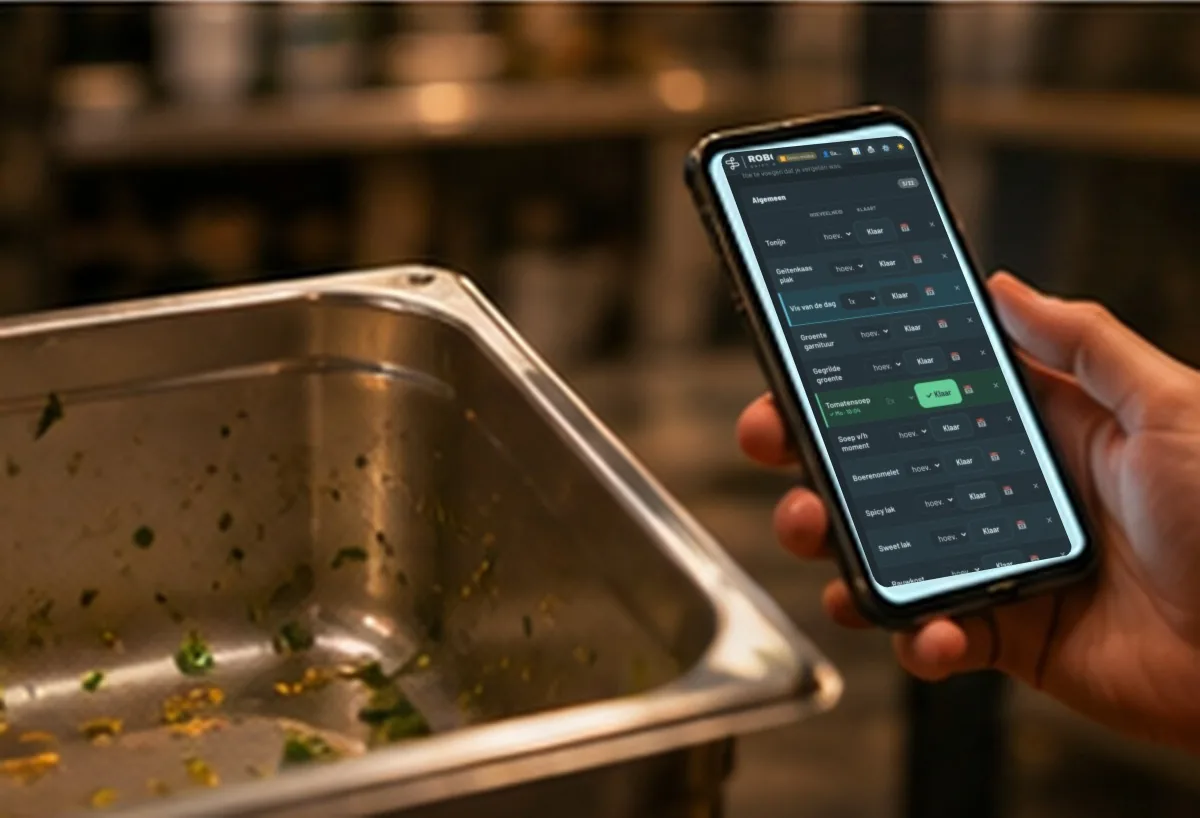
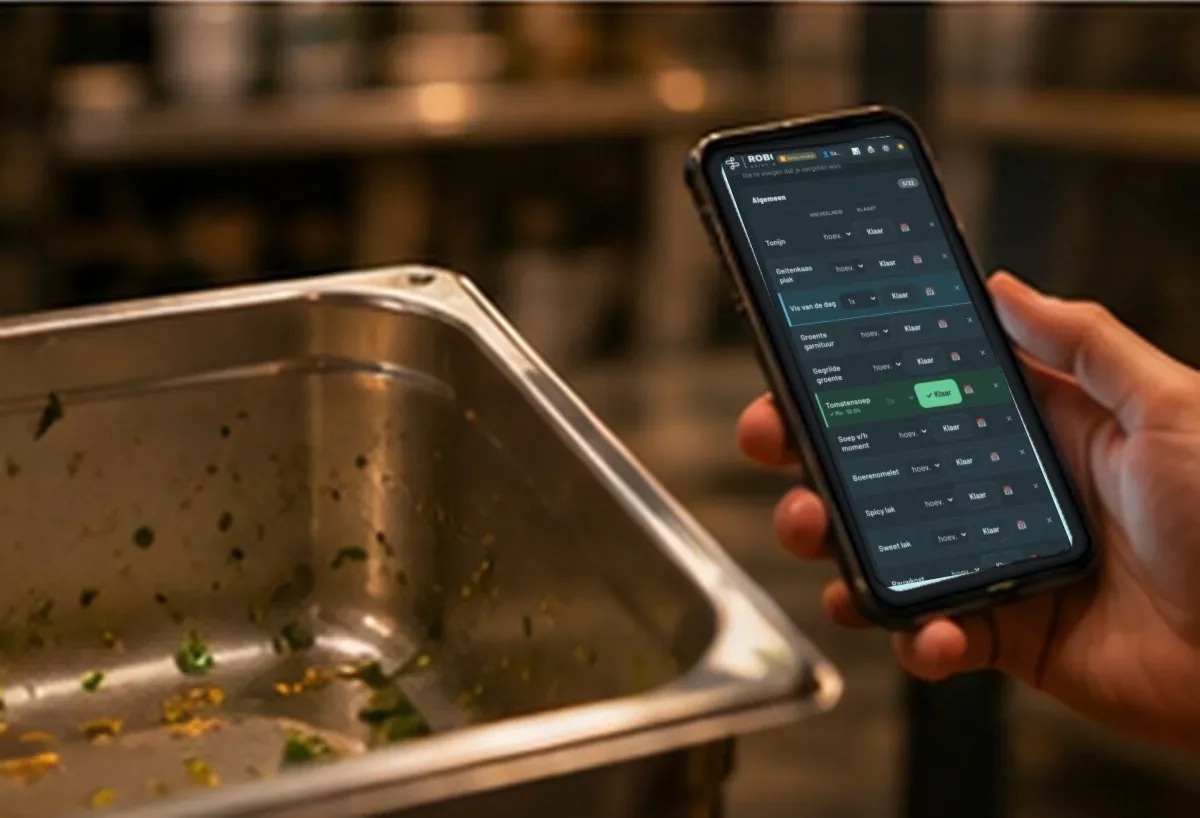
Sfeerfoto's: witte randjes rond de schermen weg (#32)
Op de telefoons en tablets in de sfeerfoto's van Fill, Loop en Pass zat
een felle witte/cyaan lijn tussen scherm en rand. Die is vervangen door
een donkere schermrand, zodat het scherm echt in het toestel zit. Inhoud
van de schermen is niet veranderd. Echo-foto's ongewijzigd.

Claude-Session: https://claude.ai/code/session_01ALUUsfmRKza1PMbGdj28pU

diff --git a/index.html b/index.html
@@ -981,7 +981,7 @@ footer .meta a:hover{color:var(--fg)}
 </div>
 </div>
 
-<div class="wrap ha-wrap"><div class="hero-apps"><a class="h-fill" href="#fill" aria-label="Bekijk Fill"><img src="img/sfeer/fill-1.webp" alt="" style="object-position:62% center" loading="eager"><span class="ha-t"><b>Fill<i aria-hidden="true"><svg viewBox="0 0 24 24" fill="none" stroke="currentColor" stroke-width="2.8" stroke-linecap="round" stroke-linejoin="round"><path d="M5 12h14M13 6l6 6-6 6"/></svg></i></b><span>Volle koelingen, live met je kassa</span></span></a><a class="h-loop" href="#loop" aria-label="Bekijk Loop"><img src="img/sfeer/loop-3.webp" alt="" style="object-position:72% center" loading="eager"><span class="ha-t"><b>Loop<i aria-hidden="true"><svg viewBox="0 0 24 24" fill="none" stroke="currentColor" stroke-width="2.8" stroke-linecap="round" stroke-linejoin="round"><path d="M5 12h14M13 6l6 6-6 6"/></svg></i></b><span>De mise en place samen op één lijst</span></span></a><a class="h-pass" href="#pass" aria-label="Bekijk Pass"><img src="img/sfeer/pass-3.webp?v=2" alt="" style="object-position:38% center" loading="eager"><span class="ha-t"><b>Pass<i aria-hidden="true"><svg viewBox="0 0 24 24" fill="none" stroke="currentColor" stroke-width="2.8" stroke-linecap="round" stroke-linejoin="round"><path d="M5 12h14M13 6l6 6-6 6"/></svg></i></b><span>Meer drankjes, op het juiste moment</span></span></a><a class="h-echo" href="#echo" aria-label="Bekijk Echo"><img src="img/sfeer/echo-2.webp" alt="" style="object-position:48% center" loading="eager"><span class="ha-t"><b>Echo<i aria-hidden="true"><svg viewBox="0 0 24 24" fill="none" stroke="currentColor" stroke-width="2.8" stroke-linecap="round" stroke-linejoin="round"><path d="M5 12h14M13 6l6 6-6 6"/></svg></i></b><span>Eén tik aan tafel na het afrekenen</span></span></a></div></div>
+<div class="wrap ha-wrap"><div class="hero-apps"><a class="h-fill" href="#fill" aria-label="Bekijk Fill"><img src="img/sfeer/fill-1.webp?v=4" alt="" style="object-position:62% center" loading="eager"><span class="ha-t"><b>Fill<i aria-hidden="true"><svg viewBox="0 0 24 24" fill="none" stroke="currentColor" stroke-width="2.8" stroke-linecap="round" stroke-linejoin="round"><path d="M5 12h14M13 6l6 6-6 6"/></svg></i></b><span>Volle koelingen, live met je kassa</span></span></a><a class="h-loop" href="#loop" aria-label="Bekijk Loop"><img src="img/sfeer/loop-3.webp?v=4" alt="" style="object-position:72% center" loading="eager"><span class="ha-t"><b>Loop<i aria-hidden="true"><svg viewBox="0 0 24 24" fill="none" stroke="currentColor" stroke-width="2.8" stroke-linecap="round" stroke-linejoin="round"><path d="M5 12h14M13 6l6 6-6 6"/></svg></i></b><span>De mise en place samen op één lijst</span></span></a><a class="h-pass" href="#pass" aria-label="Bekijk Pass"><img src="img/sfeer/pass-3.webp?v=4" alt="" style="object-position:38% center" loading="eager"><span class="ha-t"><b>Pass<i aria-hidden="true"><svg viewBox="0 0 24 24" fill="none" stroke="currentColor" stroke-width="2.8" stroke-linecap="round" stroke-linejoin="round"><path d="M5 12h14M13 6l6 6-6 6"/></svg></i></b><span>Meer drankjes, op het juiste moment</span></span></a><a class="h-echo" href="#echo" aria-label="Bekijk Echo"><img src="img/sfeer/echo-2.webp" alt="" style="object-position:48% center" loading="eager"><span class="ha-t"><b>Echo<i aria-hidden="true"><svg viewBox="0 0 24 24" fill="none" stroke="currentColor" stroke-width="2.8" stroke-linecap="round" stroke-linejoin="round"><path d="M5 12h14M13 6l6 6-6 6"/></svg></i></b><span>Eén tik aan tafel na het afrekenen</span></span></a></div></div>
 <div class="wrap ha-wrap day-wrap">
 <div class="day" id="day" aria-label="Een dag in de horeca met de momenten waarop Loop, Pass, Fill en Echo het werk doen">
 <div class="day-h"><b>Een dag met RoboShift</b><span class="day-now" id="day-now"><i></i>nu <b class="num" id="day-time">20:00</b></span></div>
@@ -1016,9 +1016,9 @@ footer .meta a:hover{color:var(--fg)}
 <!-- ===== FILL ===== -->
 <div class="app-panel" id="fill" role="tabpanel" aria-labelledby="t-fill">
 <div class="duo duo-top">
-<figure><img src="img/sfeer/fill-1.webp" alt="Kratten in het magazijn met de Fill-paklijst op een telefoon" loading="lazy"><figcaption>Eén keer lopen: de paklijst ligt klaar op de kratten.</figcaption></figure>
-<figure><img src="img/sfeer/fill-2.webp" alt="Barmedewerker bij de koeling met Fill op de telefoon" style="object-position:65% center" loading="lazy"><figcaption>Bijvullen aan de koeling: je ziet live wat er weg is.</figcaption></figure>
-<figure><img src="img/sfeer/fill-3.webp" alt="Telefoon met Fill op een tafel op het terras aan de haven" loading="lazy"><figcaption>Mooi weer op het terras? Fill weet vooraf hoeveel extra er koud moet.</figcaption></figure>
+<figure><img src="img/sfeer/fill-1.webp?v=4" alt="Kratten in het magazijn met de Fill-paklijst op een telefoon" loading="lazy"><figcaption>Eén keer lopen: de paklijst ligt klaar op de kratten.</figcaption></figure>
+<figure><img src="img/sfeer/fill-2.webp?v=4" alt="Barmedewerker bij de koeling met Fill op de telefoon" style="object-position:65% center" loading="lazy"><figcaption>Bijvullen aan de koeling: je ziet live wat er weg is.</figcaption></figure>
+<figure><img src="img/sfeer/fill-3.webp?v=4" alt="Telefoon met Fill op een tafel op het terras aan de haven" loading="lazy"><figcaption>Mooi weer op het terras? Fill weet vooraf hoeveel extra er koud moet.</figcaption></figure>
 </div>
 <div class="split">
 <div>
@@ -1176,9 +1176,9 @@ footer .meta a:hover{color:var(--fg)}
 <!-- ===== LOOP ===== -->
 <div class="app-panel" id="loop" role="tabpanel" aria-labelledby="t-loop" hidden>
 <div class="duo duo-top">
-<figure><img src="img/sfeer/loop-1.webp" alt="Kok tikt op Loop op de tablet in de keuken" style="object-position:70% center" loading="lazy"><figcaption>Afvinken op de tablet: klaar is klaar, voor iedereen zichtbaar.</figcaption></figure>
-<figure><img src="img/sfeer/loop-2.webp" alt="Kok aan het snijden met Loop op de telefoon naast de bakken" loading="lazy"><figcaption>Iedereen werkt tegelijk op dezelfde lijst.</figcaption></figure>
-<figure><img src="img/sfeer/loop-3.webp" alt="Lege gastrobak, iemand markeert het in Loop" loading="lazy"><figcaption>Bijna op? Markeer het, dan weet de inkoop het.</figcaption></figure>
+<figure><img src="img/sfeer/loop-1.webp?v=4" alt="Kok tikt op Loop op de tablet in de keuken" style="object-position:70% center" loading="lazy"><figcaption>Afvinken op de tablet: klaar is klaar, voor iedereen zichtbaar.</figcaption></figure>
+<figure><img src="img/sfeer/loop-2.webp?v=4" alt="Kok aan het snijden met Loop op de telefoon naast de bakken" loading="lazy"><figcaption>Iedereen werkt tegelijk op dezelfde lijst.</figcaption></figure>
+<figure><img src="img/sfeer/loop-3.webp?v=4" alt="Lege gastrobak, iemand markeert het in Loop" loading="lazy"><figcaption>Bijna op? Markeer het, dan weet de inkoop het.</figcaption></figure>
 </div>
 <div class="split">
 <div>
@@ -1210,9 +1210,9 @@ footer .meta a:hover{color:var(--fg)}
 <!-- ===== PASS ===== -->
 <div class="app-panel" id="pass" role="tabpanel" aria-labelledby="t-pass" hidden>
 <div class="duo duo-top">
-<figure><img src="img/sfeer/pass-3.webp?v=2" alt="Bediening met een rondje bier en Pass op de telefoon" loading="lazy"><figcaption>Drankkansen: zie welke tafel toe is aan een rondje.</figcaption></figure>
-<figure><img src="img/sfeer/pass-2.webp?v=3" alt="Bediening tikt op Pass om een tafel uit te vragen" loading="lazy"><figcaption>Uitvragen op het juiste moment, met één tik in unTill.</figcaption></figure>
-<figure><img src="img/sfeer/pass-1.webp?v=2" alt="Pass op de tablet bij de pas, onder de warmhoudlampen" style="object-position:75% center" loading="lazy"><figcaption>Bij de pas ziet de bediening in één blik wat er nu moet gebeuren.</figcaption></figure>
+<figure><img src="img/sfeer/pass-3.webp?v=4" alt="Bediening met een rondje bier en Pass op de telefoon" loading="lazy"><figcaption>Drankkansen: zie welke tafel toe is aan een rondje.</figcaption></figure>
+<figure><img src="img/sfeer/pass-2.webp?v=4" alt="Bediening tikt op Pass om een tafel uit te vragen" loading="lazy"><figcaption>Uitvragen op het juiste moment, met één tik in unTill.</figcaption></figure>
+<figure><img src="img/sfeer/pass-1.webp?v=4" alt="Pass op de tablet bij de pas, onder de warmhoudlampen" style="object-position:75% center" loading="lazy"><figcaption>Bij de pas ziet de bediening in één blik wat er nu moet gebeuren.</figcaption></figure>
 </div>
 <div class="pass-top">
 <div>
